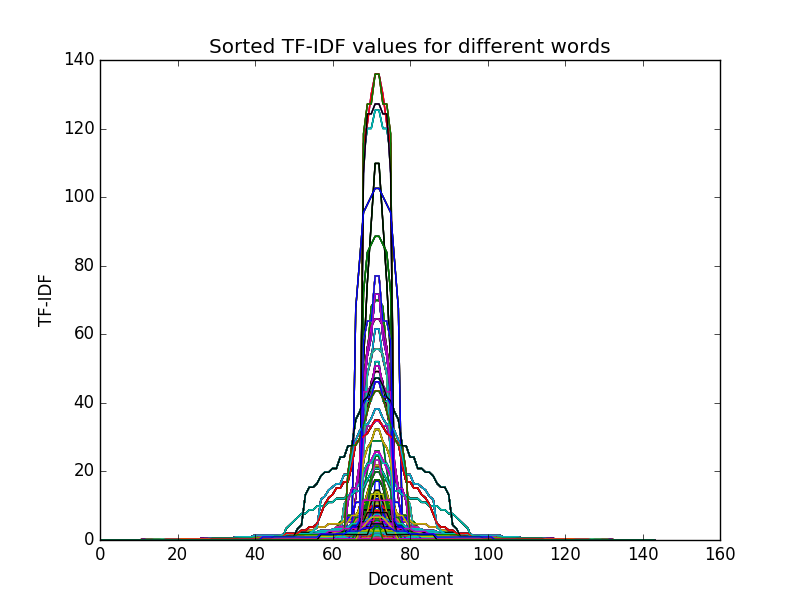
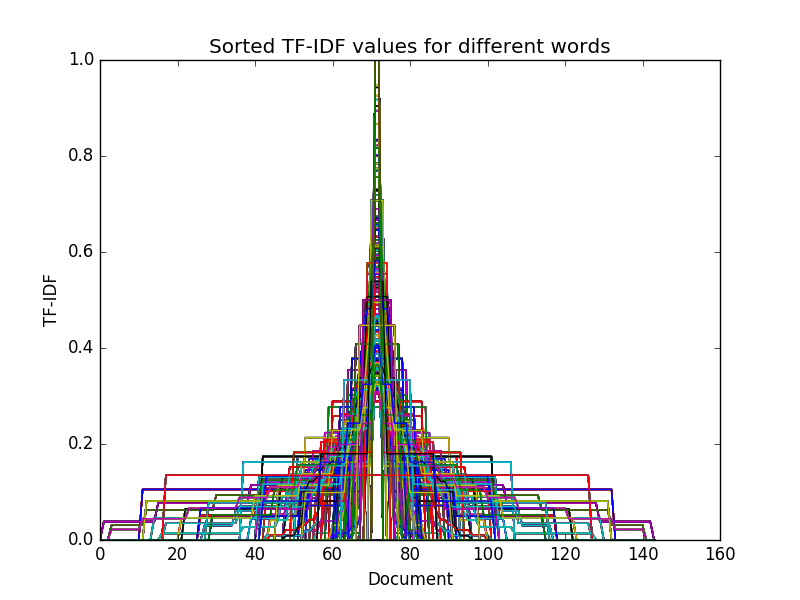
after normalizing data

diff --git a/karan/tfidf.py b/karan/tfidf.py
@@ -1,8 +1,10 @@
 import matplotlib.pyplot as plt
 import numpy as np
+from sklearn.preprocessing import normalize
 
 # load data
 data = np.load("AllWords_NumpyResults.npy")
+data = normalize(data)
 rows, columns = data.shape
 
 # sort per row
